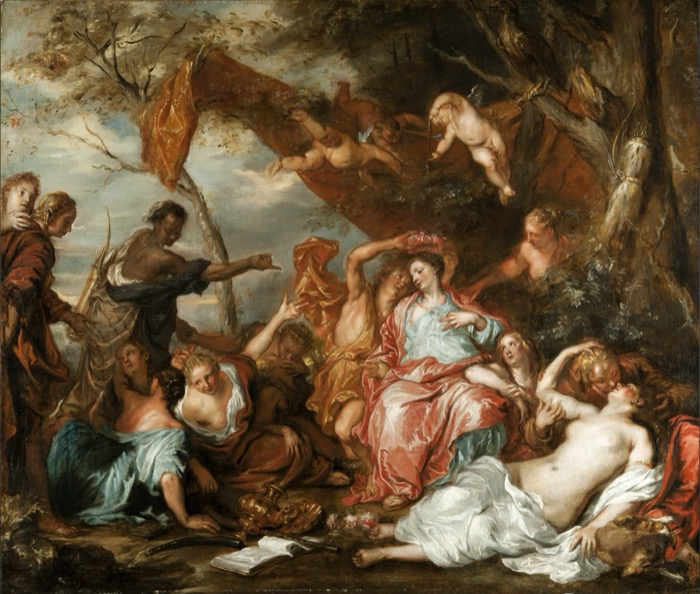
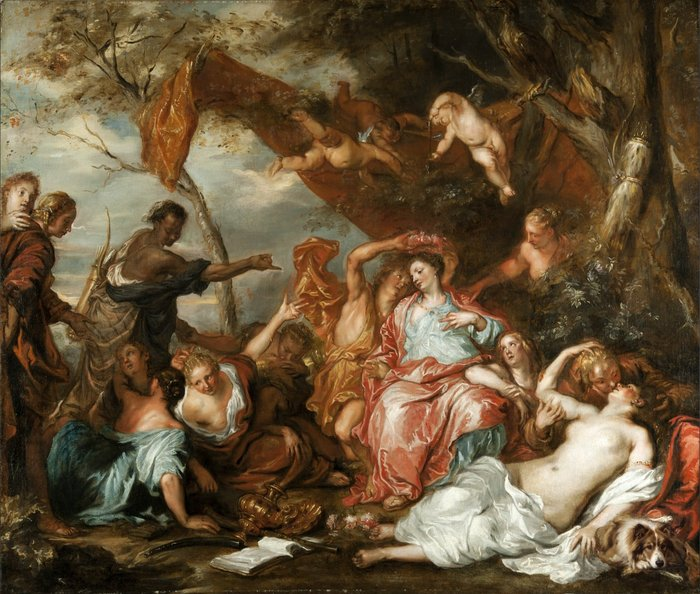
Phone edition, stage 2: Anthony's artifacts, the hourglass countdown, the three who hid; clean re-renders
- The atrium chapter shows Anthony's three artifacts (card, the Essentials, A2: Amelia); the details chapter opens with
  the hourglass and a brass count of days until Siena, kept live
- The three who hid work on the phone: in the lightbox a tap on the animal names it and fills a star in the
  "Hidden bonuses" line; finds share localStorage ka-found with the 3D gallery. The phone copies of Primavera,
  Amaryllis and Good Government re-made from assets/ (the old ones predated the pets)
- "Tap to look closer" sits directly under each frame
- Fix: the room and sculpture pictures re-rendered without the collection tally, whose top edge showed along their
  bottom-left (the harness's clean=1 now hides #tally); four new cards for the artifacts and the hourglass
- make_mobile_content.py carries the artifacts, the hourglass and the pets' boxes; HANDOFF updated

diff --git a/Wedding website planning/mobile/mobile.js b/Wedding website planning/mobile/mobile.js
@@ -12,8 +12,8 @@
   const artHtml = (it, opts = {}) => {                              // a framed picture with its label; tapping opens the lightbox
     lbItems.push(it); const i = lbItems.length - 1;
     return `<figure class="art"><button class="pic" data-lb="${i}" aria-label="${esc(it.title)}">
-      <div class="frame${opts.oval ? ' oval' : ''}">${picture(it.img, it.title, it.aspect)}</div></button>
-      <figcaption class="label"><h3>${esc(it.title)}</h3><p class="meta">${esc(it.meta)}</p>${opts.noBody ? '' : `<p class="body">${esc(it.body)}</p>`}<p class="tap">Tap to look closer</p></figcaption></figure>`;
+      <div class="frame${opts.oval ? ' oval' : ''}">${picture(it.img, it.title, it.aspect)}</div></button><p class="tap under">Tap to look closer</p>
+      <figcaption class="label"><h3>${esc(it.title)}</h3><p class="meta">${esc(it.meta)}</p>${opts.noBody ? '' : `<p class="body">${esc(it.body)}</p>`}</figcaption></figure>`;
   };
   const statueHtml = (it) => { lbItems.push(it); const i = lbItems.length - 1;
     return `<button class="statue" data-lb="${i}"><div class="plinth"><img src="${it.img}" alt="${esc(it.title)}" loading="lazy" decoding="async"></div><h3>${esc(it.title)}</h3><p class="meta">${esc(it.meta)}</p></button>`; };
@@ -24,7 +24,7 @@
   const rooms = C.rooms, [atrium, w1, w2, det] = rooms;
   let html = '';
   html += `<section class="chapter" id="atrium"><div class="hero"><img src="${atrium.hero}" alt="The atrium" fetchpriority="high" decoding="async"><div class="cap"><h2>${esc(atrium.title)}</h2><p class="sub">${esc(atrium.intro.title)}</p></div></div>
-    <div class="text"><p class="body">${esc(atrium.intro.body)}</p></div>`;
+    <div class="text"><p class="body">${esc(atrium.intro.body)}</p><p class="bonus" id="bonus"></p></div>`;
   const pair = atrium.items[0]; lbItems.push(pair);
   html += `<div class="statues"><button class="statue" data-lb="${lbItems.length - 1}"><div class="plinth"><img src="${pair.img}" alt="Venus" loading="lazy" decoding="async"></div><h3>Venus</h3></button>
     <button class="statue" data-lb="${lbItems.length - 1}"><div class="plinth"><img src="${pair.img2}" alt="Mars" loading="lazy" decoding="async"></div><h3>Mars</h3></button></div>
@@ -33,6 +33,8 @@
   html += `<div class="text"><p class="eyebrow">The atrium · Anthony · interactive installation</p><h3>The Arcade</h3></div>
     <figure class="art"><button class="pic" id="playItaly" aria-label="Open the arcade"><div class="frame" id="italyFrame"></div></button>
       <figcaption class="label"><p class="meta">Anthony Alvarez &amp; Kelly Wheelis, 2026 · playable pieces</p><p class="body">Five playable pieces: Getting to Italy, Cross the Piazza, Catch the Bouquet, Flight to Siena, and The Seating Chart.</p><p class="tap">Tap to play</p></figcaption></figure>`;
+  // Anthony's wall: the three pieces from his collection hung beside the arcade (tap one for its write-up)
+  if (atrium.artifacts) html += `<div class="text"><p class="eyebrow">The atrium · Anthony · from the collection</p></div><div class="statues">${atrium.artifacts.map(statueHtml).join('')}</div>`;
   html += `<div class="text center"><p class="eyebrow">The two galleries</p><p class="body">Two collections, one exhibit: on the left, Kelly's; on the right, Anthony's. The frames are waiting for photographs.</p><div><span class="plaque">Kelly</span> &nbsp; <span class="plaque">Anthony</span></div></div><div class="rule"></div></section>`;
 
   const wingHtml = (w, sub) => {
@@ -50,6 +52,14 @@
   // the details room
   html += `<section class="chapter det" id="det"><div class="hero"><img src="${det.hero}" alt="The details room" loading="lazy" decoding="async"><div class="cap"><h2>${esc(det.title)}</h2><p class="sub">Everything you need to know</p></div></div>
     <div class="text center"><p class="eyebrow">The centerpiece</p><h3>${esc(det.centre.title)}</h3><p class="body">${esc(det.centre.body)}</p><p class="meta">${esc(det.centre.meta)}</p></div>`;
+  // the hourglass: the countdown to the wedding, kept to the day as the 3D gallery's plaque is
+  if (det.hourglass) {
+    const hg = det.hourglass, days = Math.max(0, Math.ceil((hg.wedding - Date.now()) / 86400000));
+    lbItems.push(hg);
+    html += `<div class="countdown"><button class="statue" data-lb="${lbItems.length - 1}" aria-label="${esc(hg.title)}"><div class="plinth"><img src="${hg.img}" alt="${esc(hg.title)}" loading="lazy" decoding="async"></div></button>
+      <div class="count"><p class="eyebrow">Exhibit details · the countdown</p><div class="brass"><small>${days === 1 ? 'Day' : 'Days'}</small><b>${days}</b><small>until Siena</small></div>
+      <h3>${esc(hg.title)}</h3><p class="body">${esc(hg.body)}</p></div></div>`;
+  }
   // the table: save-the-date and invitation
   html += `<div class="table"><p class="eyebrow">On the table</p><h3>${esc(det.table.title)}</h3><p class="body">${esc(det.table.body)}</p>
     <div class="piece" id="volPiece"><div class="vol" id="vol"><img class="wheel" src="img/vol-wheel.png" alt="" decoding="async" draggable="false"><canvas id="volFront" width="1000" height="1000"></canvas><div class="eyelet"></div><img class="backface" src="img/vol-back.png" alt="" loading="lazy" decoding="async" draggable="false"></div>
@@ -90,7 +100,32 @@
     const x = e.target.closest('[data-close]'); if (x) { el('card-' + x.dataset.close).classList.remove('open'); return; }
   });
   el('lbX').addEventListener('click', closeLb);
-  el('lbImg').addEventListener('click', closeLb);
+  // ---- the three who hid: a family pet painted into three of the pictures, unmarked. In the lightbox a tap on the
+  // animal names it and fills a gold star; anywhere else on the picture closes it as before. The finds are kept where
+  // the 3D gallery keeps them (localStorage ka-found, by picture), so a find on the phone counts there too
+  const FOUND = new Set((() => { try { return JSON.parse(localStorage.getItem('ka-found') || '[]'); } catch (e) { return []; } })());
+  const HIDDEN_KEYS = [...new Set(lbItems.filter((it) => it.hidden).map((it) => it.hidden.key))];
+  const paintBonus = () => {
+    const got = HIDDEN_KEYS.filter((k) => FOUND.has(k)).length;
+    el('bonus').innerHTML = 'Hidden bonuses ' + HIDDEN_KEYS.map((k, i) => `<span class="${i < got ? 'on' : ''}">${i < got ? '★' : '☆'}</span>`).join('');
+  };
+  paintBonus();
+  const findPet = (h) => {
+    if (!FOUND.has(h.key)) { FOUND.add(h.key); try { localStorage.setItem('ka-found', JSON.stringify([...FOUND])); } catch (e) { /* the find lasts the visit */ } }
+    paintBonus();
+    const got = HIDDEN_KEYS.filter((k) => FOUND.has(k)).length;
+    const meta = got >= HIDDEN_KEYS.length ? 'All three found.' : got === HIDDEN_KEYS.length - 1 ? 'Two of three found. One more is hiding.' : h.meta;
+    el('lbTxt').innerHTML = `<p class="eyebrow">${esc(h.eyebrow)}</p><h3>${esc(h.title)}</h3><p class="body">${esc(h.body)}</p><p class="meta">${esc(meta)}</p>`;
+  };
+  el('lbImg').addEventListener('click', (e) => {
+    const it = lbItems[lbIndex], img = el('lbImg').querySelector('img');
+    if (it && it.hidden && img && e.target === img) {                 // where on the painting itself (inside its gilt border) the tap landed
+      const r = img.getBoundingClientRect(), bw = parseFloat(getComputedStyle(img).borderLeftWidth) || 0;
+      const u = (e.clientX - r.left - bw) / (r.width - 2 * bw), v = (e.clientY - r.top - bw) / (r.height - 2 * bw), a = it.hidden.at, pad = 0.05;
+      if (u >= a[0] - pad && u <= a[2] + pad && v >= a[1] - pad && v <= a[3] + pad) { findPet(it.hidden); return; }
+    }
+    closeLb();
+  });
   window.addEventListener('keydown', (e) => { if (e.key === 'Escape') closeLb(); });
 
   // ---- the save-the-date: the front panel drawn with its window cut out, the wheel turning behind it

diff --git a/Wedding website planning/mobile/content.js b/Wedding website planning/mobile/content.js
@@ -48,7 +48,27 @@ window.CONTENT = {
      "body": "Photographs to come.",
      "meta": "Placeholder"
     }
-   }
+   },
+   "artifacts": [
+    {
+     "img": "img/art-anthonyCard.jpg",
+     "title": "Destiny HERO – Diamond Dude",
+     "body": "Anthony is a card battler of some notoriety, with experience that runs across numerous titles and competitions. This is his favorite card, slabbed and graded, hung where a portrait would go. Ask him about it, and allow time.",
+     "meta": "Yu-Gi-Oh! trading card, graded slab · from the collection of Anthony Alvarez"
+    },
+    {
+     "img": "img/art-anthonyCase.jpg",
+     "title": "The Essentials",
+     "body": "It is widely known that Anthony runs on three things: a Peach Red Bull, Hot Sauce, and Marlboro Southern Cuts. One of each, kept behind glass with a hammer, just in case. He plans to cut back after the wedding and quit in time, at which point this becomes a museum piece in the truest sense.",
+     "meta": "Mixed media behind glass, with hammer · please do not actually break the glass"
+    },
+    {
+     "img": "img/art-anthonyAmelia.jpg",
+     "title": "A2: Amelia",
+     "body": "The first gift Kelly ever gave Anthony: a brick-built Amelia, put together stud by stud. Amelia immediately tried to fight it. Although the muse is still slightly wary of her tiny brick doppelganger, she allows it to continue to exist among us for now.",
+     "meta": "Micro-brick model, built by Kelly Wheelis · Siena marble plinth"
+    }
+   ]
   },
   {
    "id": "w1",
@@ -78,7 +98,20 @@ window.CONTENT = {
        "aspect": 1.1776883266244969,
        "title": "Amaryllis and Mirtillo",
        "body": "A kissing contest, judged by nymphs, and the winner is crowned with flowers. We are not holding a contest. There will be a kiss.",
-       "meta": "Anthony van Dyck, c. 1631–32 · Gothenburg Museum of Art"
+       "meta": "Anthony van Dyck, c. 1631–32 · Gothenburg Museum of Art",
+       "hidden": {
+        "key": "assets/w1-amaryllis-and-mirtillo.jpg",
+        "at": [
+         0.84,
+         0.86,
+         0.99,
+         0.985
+        ],
+        "eyebrow": "Wing I · found",
+        "title": "Mishka, with the hound",
+        "body": "A hound in the corner, resting against Amaryllis’s hand. Mishka, the definition of a Velcro dog, is not asleep. He is keeping an eye on the party and refuses to be left out.",
+        "meta": "One of three. The other two are elsewhere in the building."
+       }
       },
       {
        "img": "img/w1-three-graces.jpg",
@@ -136,7 +169,20 @@ window.CONTENT = {
     "aspect": 1.5467980295566504,
     "title": "Primavera",
     "body": "A hundred and ninety species of plant in one painting, and a garden that refuses to stop. The reception takes this as instruction as well as inspiration.",
-    "meta": "Sandro Botticelli, c. 1480 · Uffizi, Florence"
+    "meta": "Sandro Botticelli, c. 1480 · Uffizi, Florence",
+    "hidden": {
+     "key": "assets/primavera.jpg",
+     "at": [
+      0.073,
+      0.82,
+      0.165,
+      0.975
+     ],
+     "eyebrow": "Wing II · found",
+     "title": "Amelia, in the orchard",
+     "body": "Botticelli did not paint a dog at Mercury’s feet. Kelly regularly paints her pets into other people’s pictures, and Amelia saw no reason to be left out of this iconic party. In fact, she thinks she is the guest of honor.",
+     "meta": "One of three. The other two are elsewhere in the building."
+    }
    },
    "closeup": {
     "title": "Primavera",
@@ -227,6 +273,13 @@ window.CONTENT = {
     "meta": "Truong Hoai Vu · vuth.art · Paper and ink"
    },
    "shop": "img/room-details-shop.jpg",
+   "hourglass": {
+    "img": "img/sc-hourglass.jpg",
+    "title": "The Hourglass",
+    "body": "The sand began to run the day this gallery opened and will finish on the afternoon of the twenty-fourth of April. Every grain in the lower bulb is a day already spent getting ready; every grain above is one still to come. The plaque keeps the count, in case you are the sort who checks. We are.",
+    "meta": "Brass and glass, 2026 · the count is kept to the day",
+    "wedding": 1808600400000
+   },
    "sections": [
     {
      "key": "main",
@@ -461,7 +514,20 @@ window.CONTENT = {
        "aspect": 2.551640340218712,
        "title": "The Effects of Good Government in the Countryside",
        "body": "The hills round Siena, painted a short drive from the villa nearly seven hundred years ago, and they have hardly changed: white roads, vineyards, and rather more slope than it looks. Pack shoes accordingly.",
-       "meta": "Ambrogio Lorenzetti, 1338–39 · Palazzo Pubblico, Siena"
+       "meta": "Ambrogio Lorenzetti, 1338–39 · Palazzo Pubblico, Siena",
+       "hidden": {
+        "key": "assets/det-good-government-countryside.jpg",
+        "at": [
+         0.66,
+         0.9,
+         0.725,
+         0.985
+        ],
+        "eyebrow": "Exhibit details · found",
+        "title": "Trogdor, on the road to Siena",
+        "body": "On Lorenzetti’s white road, among the mule trains, a sulcata tortoise is making for the villa at his own pace. Trogdor set off some time ago. He will get there… eventually.",
+        "meta": "One of three. The other two are elsewhere in the building."
+       }
       },
       {
        "img": "img/det-storm-on-a-mediterranean-coast.jpg",

diff --git a/Wedding website planning/mobile/mobile.css b/Wedding website planning/mobile/mobile.css
@@ -198,4 +198,16 @@ details.credits summary { text-align: center; font-size: 11px; letter-spacing: .
 details.credits summary::-webkit-details-marker { display: none; }
 details.credits ul { padding: 14px 0 0 18px; margin: 0; font-size: 13px; line-height: 1.5; }
 details.credits li { margin-bottom: 8px; }
+/* the three who hid: the stars under the atrium's intro fill gold as the pets are found in the lightbox */
+.bonus { font-size: 11px; letter-spacing: .24em; text-transform: uppercase; color: var(--gold); margin: 16px 0 0; }
+.bonus span { color: rgba(242,223,168,.45); margin-left: 3px; letter-spacing: 0; font-size: 13px; }
+.bonus span.on { color: var(--gold-2); }
+/* the hourglass: its picture beside the brass count of days, as on its pedestal in the 3D gallery */
+.countdown { display: grid; grid-template-columns: 42% 1fr; gap: 16px; align-items: start; margin: 26px var(--gutter) 0; }
+.countdown .statue h3 { display: none; }
+.countdown .brass { display: inline-grid; justify-items: center; margin: 4px 0 12px; padding: 8px 18px 9px; font-family: var(--display); color: #34240a; background: linear-gradient(180deg, #d9b565, #b8934a 55%, #d2ad5b); border: 2px solid rgba(58,40,10,.6); box-shadow: inset 0 0 0 1px rgba(255,238,190,.6), 0 3px 8px rgba(0,0,0,.5); }
+.countdown .brass small { font-size: 10.5px; font-weight: 600; letter-spacing: .3em; text-transform: uppercase; }
+.countdown .brass b { font-size: 38px; font-weight: 600; line-height: 1.05; }
+.countdown h3 { font-size: 22px; color: var(--cream); }
+.countdown .body { font-size: 15.5px; margin-top: 6px; }
 @media (min-width: 700px) { :root { --gutter: 32px; } body { font-size: 18.5px; } .hero { aspect-ratio: 4 / 3; max-height: 70vh; } main { max-width: 760px; margin: 0 auto; } }

diff --git a/Wedding website planning/tools/harness/extra.js b/Wedding website planning/tools/harness/extra.js
@@ -389,7 +389,7 @@
   }, 800); }
 { const q = new URLSearchParams(location.search);
   // clean=1 : no interface at all, for postcards of the rooms
-  if (q.has('clean')) { const s = document.createElement('style'); s.textContent = '#topLeft,#turn,#hint,#compass,#sections,#back,[data-fwd],[data-back],#nav,#label,#motto{display:none!important}'; document.head.appendChild(s); } }
+  if (q.has('clean')) { const s = document.createElement('style'); s.textContent = '#topLeft,#turn,#hint,#compass,#sections,#back,[data-fwd],[data-back],#nav,#label,#motto,#tally{display:none!important}'; document.head.appendChild(s); } }
 { const q = new URLSearchParams(location.search);
   if (q.has('arcadecheck')) { const p = ATRIUM_PICTURES[4]; const st = STATIONS[ST[p.stop]]; document.title = 'arcade:' + !!window.Arcade + ' games:' + (window.Arcade ? Object.keys(Arcade.games).join(',') : '-') + ' stop:' + st.id + ' game:' + st.game + ' mat:' + (scene.children.find((o) => o.userData.station === ST[p.stop]) ? scene.children.find((o) => o.userData.station === ST[p.stop]).children[1].material.map.constructor.name : '?'); } }
 { const q = new URLSearchParams(location.search);

diff --git a/Wedding website planning/tools/make_mobile_content.py b/Wedding website planning/tools/make_mobile_content.py
@@ -26,6 +26,7 @@ FRESCOES = [('frescoBride', 'img/fresco-venus-and-graces.jpg', 'assets/fresco-ve
 PAIR_IMAGES = ('img/room-atrium-venus.jpg', 'img/room-atrium-mars.jpg')
 WING_SCULPTURE = {'w1': ['w1statue', 'w1small'], 'w2': ['w2statue', 'w2bust']}
 DET_SCULPTURE = ['detStatueL', 'detStatueR', 'detEndL', 'detEntryL', 'detEntryR']   # detEndR holds the hourglass
+ARTIFACTS = ['anthonyCard', 'anthonyCase', 'anthonyAmelia']       # on Anthony's wall; their cards are mobile/img/art-<stop>.jpg
 SECTIONS = [('main', 'detMain'), ('schedule', 'detSchedule'), ('travel', 'detTravel'), ('stay', 'detStay'),
             ('logistics', 'detFrontL'), ('policies', 'detFrontR'), ('registry', 'detShop')]   # the phone's reading order, numbered 1 to 7
 
@@ -55,12 +56,19 @@ def build(d):
     notes = d['NOTES']
     sculpt = lambda spot: {'img': f'img/sc-{spot}.jpg', 'title': d['SCULPTURE_NOTES'][spot][0],
                            'body': d['SCULPTURE_NOTES'][spot][1], 'meta': d['SCULPTURE_NOTES'][spot][2]}
-    pic = lambda src, aspect, note: {'img': 'img/' + os.path.basename(src), 'aspect': aspect, 'title': note['title'], 'body': note['body'], 'meta': note['meta']}
+
+    def hidden(src):                                              # a family pet painted into this picture: where, and its write-up
+        h = d['HIDDEN'].get('assets/' + os.path.basename(src))
+        return {'hidden': {'key': 'assets/' + os.path.basename(src), 'at': h['at'], 'eyebrow': h['eyebrow'], 'title': h['title'],
+                           'body': h['body'], 'meta': h['meta']}} if h else {}
+
+    pic = lambda src, aspect, note: {'img': 'img/' + os.path.basename(src), 'aspect': aspect, 'title': note['title'], 'body': note['body'], 'meta': note['meta'], **hidden(src)}
 
     atrium = {'id': 'atrium', 'title': 'The Atrium', 'hero': HEROES['atrium'], 'intro': tbm(st['atrium']), 'items': [
         {'kind': 'sculpture', 'img': PAIR_IMAGES[0], 'img2': PAIR_IMAGES[1], **tbm(notes['pair'])},
         *[{'kind': 'fresco', 'img': img, 'aspect': image_aspect(asset), **tbm(notes[key])} for key, img, asset in FRESCOES]],
-        'frames': {'kelly': tbm(st['kelly']), 'anthony': tbm(st['anthony'])}}
+        'frames': {'kelly': tbm(st['kelly']), 'anthony': tbm(st['anthony'])},
+        'artifacts': [{'img': f'img/art-{s}.jpg', **tbm(st[s])} for s in ARTIFACTS]}
 
     def wing(wid, numeral, title, pictures):
         img, aspect = PRINCIPAL[wid]
@@ -69,7 +77,7 @@ def build(d):
             ps = [p for p in pictures if p.get('close') and st[p['close']].get('back') == wall_stop]
             walls.append({**tbm(st[wall_stop]), 'pictures': [pic(p['src'], p['aspect'], tbm(st[p['close']])) for p in ps]})
         return {'id': wid, 'numeral': numeral, 'title': title, 'hero': HEROES[wid],
-                'principal': {'img': img, 'aspect': aspect, **tbm(st[wid])}, 'closeup': tbm(st[wid + 'close']),
+                'principal': {'img': img, 'aspect': aspect, **tbm(st[wid]), **hidden(img)}, 'closeup': tbm(st[wid + 'close']),
                 'walls': walls, 'sculptures': [sculpt(s) for s in WING_SCULPTURE[wid]]}
 
     sections = []
@@ -80,6 +88,7 @@ def build(d):
                          'card': d['CARDS'][key]})
     det = {'id': 'det', 'title': 'Exhibit Details', 'hero': HEROES['det'], 'centre': tbm(st['det']), 'table': tbm(st['detTable']),
            'volvelle': tbm(st['detVolvelle']), 'invite': tbm(st['detInvite']), 'shop': 'img/room-details-shop.jpg',
+           'hourglass': {'img': 'img/sc-hourglass.jpg', **tbm(st['sc_hourglass']), 'wedding': d['WEDDING']},   # the countdown is kept live on the phone
            'sections': sections, 'sculptures': [sculpt(s) for s in DET_SCULPTURE]}
 
     return {'names': NAMES, 'rooms': [atrium, wing('w1', 'I', 'Wing I', d['W1_PICTURES']), wing('w2', 'II', 'Wing II', d['W2_PICTURES']), det],

diff --git a/Wedding website planning/HANDOFF.md b/Wedding website planning/HANDOFF.md
@@ -477,6 +477,15 @@ the phone's tilt, the tab draws the card out), the seven detail sections with th
   sculpture from its walk-up (`goto=<room>,sc_<spot>`), Venus and Mars from `x=±0.4&z=2.4&yaw=±2.345&pitch=-0.1`.
   The phone lists the details sections in reading order (Main, Schedule, Travel, Accommodations, Logistics,
   Policies, RSVP) and numbers them 1 to 7 in that order; the 3D build numbers them in its walking order.
+  (The harness's `clean=1` hides the collection tally too since 26 Sept: the first re-render caught its top edge.)
+- **Added 26 Sept 2026**: Anthony's three artifacts on the atrium chapter (`atrium.artifacts`, cards
+  `img/art-<stop>.jpg` from their close-up stops); the hourglass with a live count of days (`det.hourglass`, card
+  `img/sc-hourglass.jpg`, the wedding time from the 3D build's `WEDDING`); and the three who hid: pictures with a pet
+  carry `hidden` (from `HIDDEN`), and in the lightbox a tap on the animal (its box plus a 5% margin, measured inside
+  the gilt border) names it and fills a star in the "Hidden bonuses" line under the atrium's intro. Finds are kept in
+  localStorage `ka-found` by picture, the same key as the 3D build, so they carry across. The phone copies of
+  Primavera, Amaryllis and Good Government were re-made from `assets/` then, as the 23 Sept copies predated the pets.
+  "Tap to look closer" sits directly under each frame (the owner's request).
 - **Checking it**: `tools/harness/.work/phone.html?p=?open%23sec-schedule` frames the page in a true 390 px
   viewport (headless Chrome will not go narrower than 500 px on its own); `?open` skips the doors, `?dbg`
   lists anything wider than the screen.
